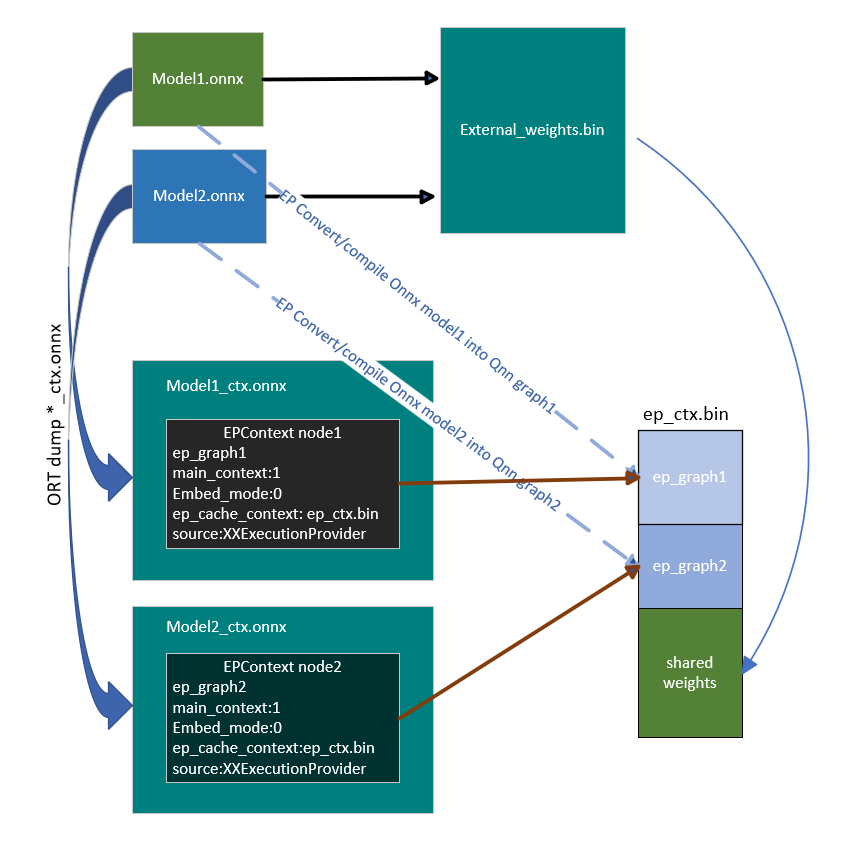
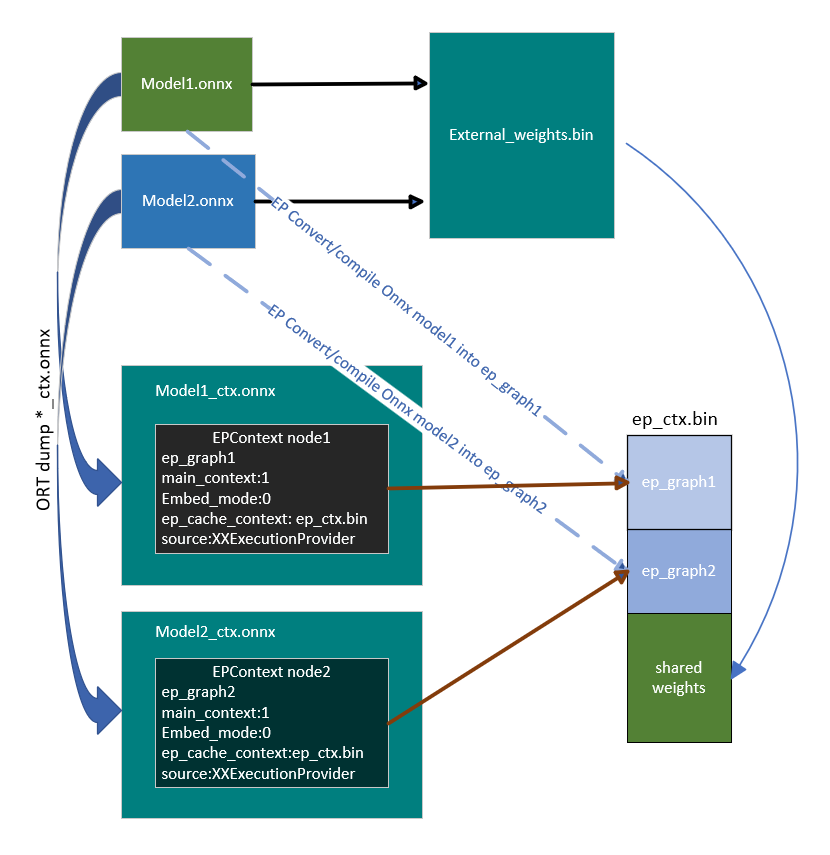
add case to create session from buffer

diff --git a/docs/execution-providers/EP-Context-Design.md b/docs/execution-providers/EP-Context-Design.md
@@ -65,7 +65,7 @@ OnnxRuntime EPs should follow these rules to create the EP context cache model t
   - 0 (default): dump the EP context content as a separate file. EP decides the file name and tracks the file name in EPContext node attribute ep_cache_context. The separate file should always at the same location as the dumped Onnx model file. And the file path tracked in EPContext node is a relative path to the Onnx model file. Note: subfolder is allowed.
 - ep.context_node_name_prefix
   - In case the user wants to add special tag inside the EPContext node name (also the partition_name attribute, and graph name), EP should provide this capability when EP creates the EPContext nodes.
-  - This is useful if the user wants to glue multiple EPContext nodes from multiple models into one model and there’s risk that node name (graph name) confliction happens across models. Dependes on EP implementation. QNN EP supports multiple QNN contexts, so user can merge and re-connect EPContext nodes generated from different models.
+  - This is useful if the user wants to glue multiple EPContext nodes from multiple models into one model and there’s risk that node name (graph name) confliction happens across models. Depends on EP implementation. QNN EP supports multiple QNN contexts, so user can merge and re-connect EPContext nodes generated from different models.
 
 ## Inference from EP Context Cache Model Workflow
 
@@ -76,7 +76,7 @@ OnnxRuntime EPs which support loading from Onnx model with EPContext nodes shoul
     - EP should check the source node attribute from all EPContext nodes to make sure there is any EPContext node for this EP (the source node attribute matches the key required by the EP).
     - EP only partition in the EPContext nodes which has source node attribute matches the key required by the EP.
     - EP loads from the cached context inside EPContext node
-- If the context cache Onnx model is dumped with embed_mode = 1, so there is separate context binary file beside the Onnx model in the same folder. 
+- If the context cache Onnx model is dumped with embed_mode = 0, so there is separate context binary file beside the Onnx model in the same folder. 
   - OnnxRuntime EP gets the context binary file relative path from EPContext ep_cache_context node attribute.
   - If the user loads the model from a Onnx model file path, then EP should get the input model folder path, and combine it with the relative path got from step a) as the context binary file full path.
   - If the user loads the model from memory buffer, user needs to provide session option ep.context_file_path. EP gets the folder path from ep.context_file_path, and combines it with the relative path   got from step a) as the context binary file full path. 
@@ -112,7 +112,7 @@ This API returns the array of pointers for EPContext nodes. Execution Provider n
     Ort::Session session1(env, "./model1.onnx", so);
 ```
 
-**Generate the EPContext model by creating session from model in memory buffer:**
+**Generate the EPContext model by creating session from model in memory buffer:**<br/>
 Similar to the C API CreateSessionFromArray, the example below creates an ONNX Runtime session from a model stored in a memory array, causing the session to lose track of the model's name and path.
 To generate the EPContext model, you must specify the file path using: `ep.context_file_path`.
 ```
@@ -136,12 +136,12 @@ To generate the EPContext model, you must specify the file path using: `ep.conte
     Ort::Session session1(env, buffer.data(), buffer.size(), so);
 ```
 
-**Generate the EPContext model by creating session from model in memory buffer, and model has external weights:**
+**Generate the EPContext model by creating session from model in memory buffer, and model has external weights:**<br/>
 Create the session from memory array, and the model depend on external data. The session requires `session.model_external_initializers_file_folder_path` to figure out the external data location, and same with previously example, `ep.context_file_path` to set the file path for the generated EPContext model.
 ```
     // Read model file into buffer array
     std::vector<char> buffer;
-    ReadFileToBuffer("./model1.onnx", buffer);
+    ReadFileToBuffer("./model_folder/model1.onnx", buffer);
 
     Ort::SessionOptions so;
 
@@ -149,8 +149,8 @@ Create the session from memory array, and the model depend on external data. The
     so.AddConfigEntry(kOrtSessionOptionEpContextEnable, "1");
 
     // Specify the generated EPContext model file path using option ep.context_file_path
-    so.AddConfigEntry(kOrtSessionOptionEpContextFilePath, "./model_ctx.onnx");
-	
+    so.AddConfigEntry(kOrtSessionOptionEpContextFilePath, "./model_folder/model_ctx.onnx");
+
     // Specify the external data folder path using option session.model_external_initializers_file_folder_path
     so.AddConfigEntry(kOrtSessionOptionsModelExternalInitializersFileFolderPath, "./external_data_folder/");
 
@@ -164,7 +164,8 @@ Create the session from memory array, and the model depend on external data. The
 Note: If there is a **subgraph fallback** on the **CPU EP** that depends on external data, the generated EPContext model **should not rely on the original external data file** used by the base model. By default, the EPContext model **embeds all external data** directly into the generated ONNX file. If you need to store weights in an external file, set `ep.context_model_external_initializers_file_name`. This option forces all initializers to be saved in the specified external file.
 
 ### Inference from EPContext Model
-**Create inference session from pre-compiled EPContext model**
+**Create inference session from pre-compiled EPContext model:**<br/>
+Create the session from model file path. If there is external EP context binary file, the session can figure out the binary file path from the model file path.
 ```
     Ort::SessionOptions so;
 
@@ -173,6 +174,29 @@ Note: If there is a **subgraph fallback** on the **CPU EP** that depends on exte
 
     // Create sessions to load from the _ctx.onnx model
     Ort::Session session1(env, "model1_ctx.onnx", so);
+
+    session1.run(...);
+```
+
+**Create inference session from pre-compiled EPContext model in memory buffer:**<br/>
+Creating a session from a memory buffer of the model causes the session to lose track of the model's name and path. To resolve this, you must set: `ep.context_file_path`.
+- The session uses this path to identify the folder location.
+- With the EP context binary file name from the `EPContext` node, the session constructs the full path to the final EP context binary file.
+```
+    // Read model file into buffer array
+    std::vector<char> buffer;
+    ReadFileToBuffer("./model_folder/model_ctx.onnx", buffer);
+
+    Ort::SessionOptions so;
+
+    // Specify the EPContext model file path using option ep.context_file_path
+    so.AddConfigEntry(kOrtSessionOptionEpContextFilePath, "./model_path/model_ctx.onnx");
+
+    // Add EP, take QNN for example
+    so.AppendExecutionProvider("QNN", provider_options);
+
+    // Create sessions to load from the buffer
+    Ort::Session session1(env, buffer.data(), buffer.size(), so);
 
     session1.run(...);
 ```
